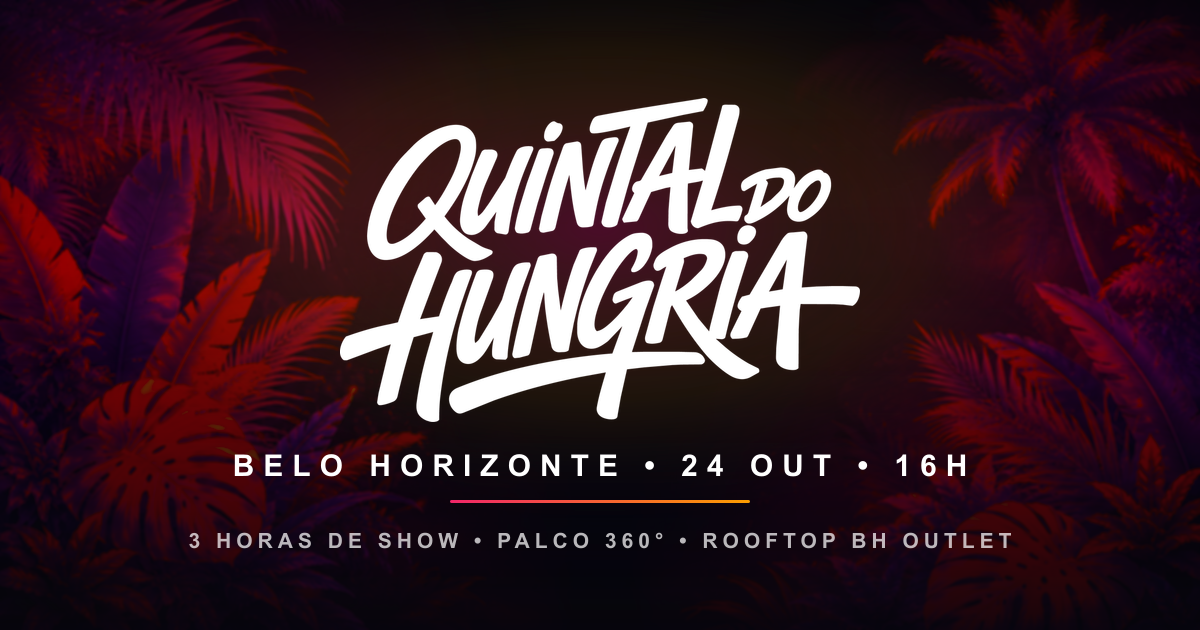
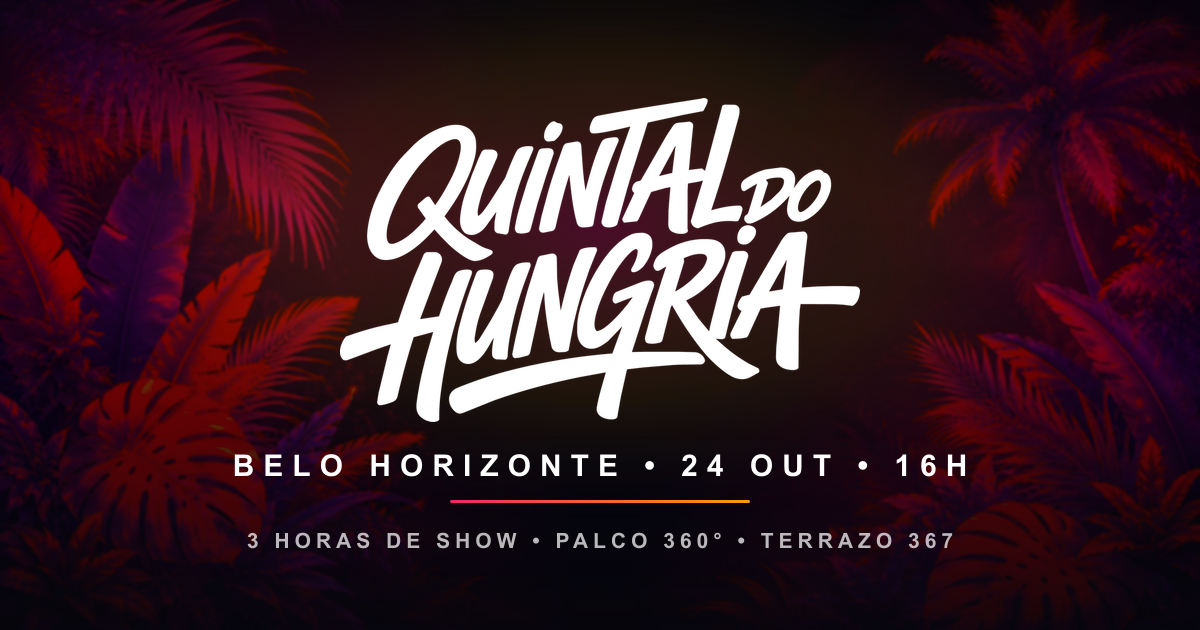
BH: local muda para Terrazo 367 (Rua Gabriela de Melo, 367)
Conforme a página oficial de vendas (BaladAPP), a edição de Belo Horizonte
(24/10, portões 16h) passa a ser no Terrazo 367 — R. Gabriela de Melo, 367,
Olhos D'Água, BH/MG, 30390-080.

• EVENT/TOUR_DATES/FAQ/metadados/OG: "Rooftop BH Outlet" → "Terrazo 367".
• Mapa por coordenadas do novo endereço (-19.9869628, -43.9656486); botão
  "Abrir localização" aponta para o endereço completo.

Changed region(s): [[0.1542, 0.8444, 0.8633, 0.8746]]

diff --git a/lib/event.js b/lib/event.js
@@ -15,14 +15,14 @@ export const TICKET_URL =
 // Links de venda das outras edições (usados nos cards da turnê).
 export const RP_TICKET_URL = 'https://www.guicheweb.com.br/quintal-do-hungria_52782'; // GuichêWeb — Ribeirão Preto (remarcado 19/12)
 
-// Local — Rooftop BH Outlet, BR-356, 7515 – Belvedere, Belo Horizonte/MG (30320-765).
+// Local — Terrazo 367, R. Gabriela de Melo, 367 – Olhos D'Água, Belo Horizonte/MG (30390-080).
 // Botão "Abrir localização": abre o Google Maps completo já no ponto.
 export const MAP_URL =
-  'https://www.google.com/maps/search/?api=1&query=BH%20Outlet%2C%20BR-356%2C%207515%2C%20Belvedere%2C%20Belo%20Horizonte%20-%20MG';
+  'https://www.google.com/maps/search/?api=1&query=R.%20Gabriela%20de%20Melo%2C%20367%20-%20Olhos%20D%27%C3%81gua%2C%20Belo%20Horizonte%20-%20MG%2C%2030390-080';
 // Embed (sem chave de API) por COORDENADAS reais do local → renderiza sempre,
 // sem depender de geocoding de texto (que às vezes mostrava o mapa em branco).
 export const MAP_EMBED_URL =
-  'https://maps.google.com/maps?q=-19.991352,-43.9570465&z=16&hl=pt-BR&output=embed';
+  'https://maps.google.com/maps?q=-19.9869628,-43.9656486&z=16&hl=pt-BR&output=embed';
 
 // Instagram oficial do Quintal do Hungria.
 export const INSTAGRAM_URL = 'https://www.instagram.com/quintaldohungria/';
@@ -34,8 +34,8 @@ export const EVENT = {
   date: '24 de outubro',
   dateShort: '24 OUT',
   weekday: 'Sábado',
-  venue: 'Rooftop BH Outlet',
-  venueShort: 'Rooftop BH Outlet',
+  venue: 'Terrazo 367',
+  venueShort: 'Terrazo 367',
   doorsTime: '16H',
   showDuration: '3 horas',
   experienceDuration: '6 horas',
@@ -76,7 +76,7 @@ export const TOUR_DATES = [
     month: 'OUT',
     dateLabel: '24/10',
     city: 'Belo Horizonte',
-    venue: 'Rooftop BH Outlet',
+    venue: 'Terrazo 367',
     status: 'active', // próxima parada — único com acento da marca + CTA
     ticketUrl: TICKET_URL, // BaladAPP
   },
@@ -164,7 +164,7 @@ export const NIGHT_JOURNEY = [
 export const FAQ = [
   {
     q: 'Onde será a próxima edição do Quintal do Hungria?',
-    a: 'A próxima parada da turnê é Belo Horizonte, no Rooftop BH Outlet — BR-356, 7515, Belvedere, Belo Horizonte/MG.',
+    a: 'A próxima parada da turnê é Belo Horizonte, no Terrazo 367 — Rua Gabriela de Melo, 367, Olhos D’Água, Belo Horizonte/MG.',
   },
   {
     q: 'Quando acontece a próxima edição?',
@@ -176,7 +176,7 @@ export const FAQ = [
   },
   {
     q: 'Que horas começa o evento?',
-    a: 'A abertura varia por cidade. Na próxima edição, em Belo Horizonte, os portões do Rooftop BH Outlet abrem às 16h.',
+    a: 'A abertura varia por cidade. Na próxima edição, em Belo Horizonte, os portões do Terrazo 367 abrem às 16h.',
   },
   {
     q: 'Quanto tempo dura o show do Hungria?',

diff --git a/app/layout.jsx b/app/layout.jsx
@@ -20,13 +20,13 @@ export const metadata = {
   metadataBase: new URL(siteUrl),
   title: 'Quintal do Hungria',
   description:
-    'O Quintal do Hungria na estrada: 6 horas de experiência em 360°, com 3 horas de show exclusivo do Hungria. Próxima parada: Belo Horizonte, 24 de outubro, Rooftop BH Outlet. Ingressos pela BaladAPP.',
+    'O Quintal do Hungria na estrada: 6 horas de experiência em 360°, com 3 horas de show exclusivo do Hungria. Próxima parada: Belo Horizonte, 24 de outubro, Terrazo 367. Ingressos pela BaladAPP.',
   applicationName: 'Quintal do Hungria',
   keywords: [
     'Quintal do Hungria',
     'Hungria',
     'Belo Horizonte',
-    'Rooftop BH Outlet',
+    'Terrazo 367',
     'show',
     'palco 360',
     'ingressos',
@@ -37,7 +37,7 @@ export const metadata = {
   openGraph: {
     title: 'Quintal do Hungria — A turnê',
     description:
-      'Quintal do Hungria: 6 horas de experiência em 360°, com 3 horas de show exclusivo do Hungria. Próxima parada: Belo Horizonte · 24 de outubro · Rooftop BH Outlet.',
+      'Quintal do Hungria: 6 horas de experiência em 360°, com 3 horas de show exclusivo do Hungria. Próxima parada: Belo Horizonte · 24 de outubro · Terrazo 367.',
     url: '/',
     siteName: 'Quintal do Hungria',
     type: 'website',

diff --git a/components/LocationSection.jsx b/components/LocationSection.jsx
@@ -59,7 +59,7 @@ export default function LocationSection() {
         <Reveal delay={0.12}>
           <div className="relative aspect-[4/3] overflow-hidden rounded-[2rem] border border-white/10 bg-ink-2 shadow-panel lg:aspect-[5/4]">
             <iframe
-              title="Mapa — Rooftop BH Outlet, Belo Horizonte"
+              title="Mapa — Terrazo 367, Belo Horizonte"
               src={MAP_EMBED_URL}
               className="absolute inset-0 h-full w-full border-0 [filter:invert(0.92)_hue-rotate(180deg)_brightness(0.95)_contrast(0.92)]"
               loading="lazy"
